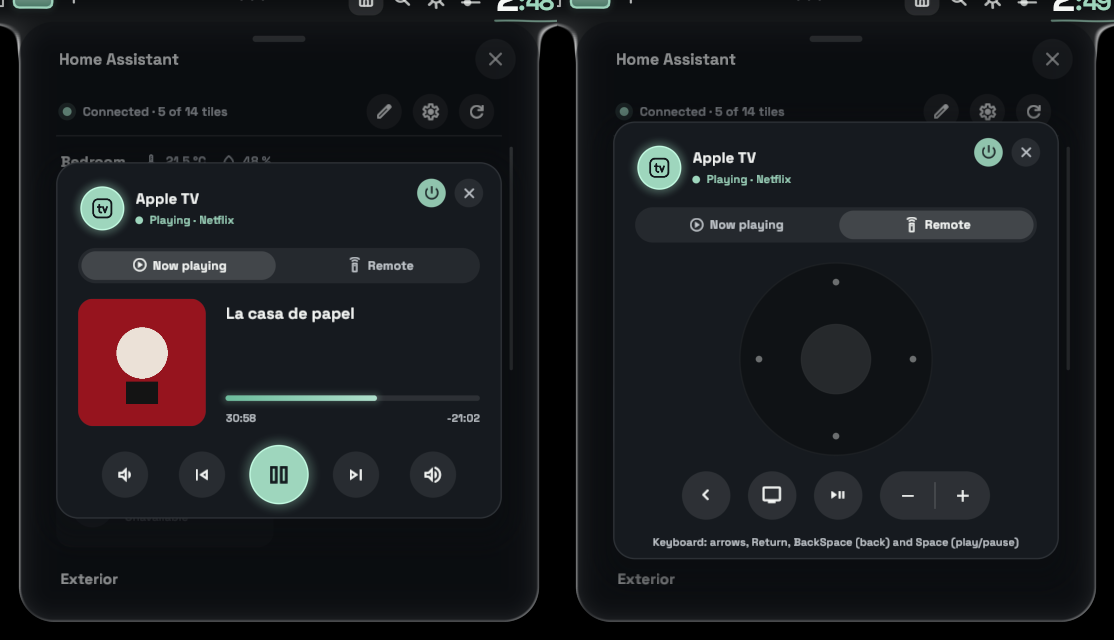
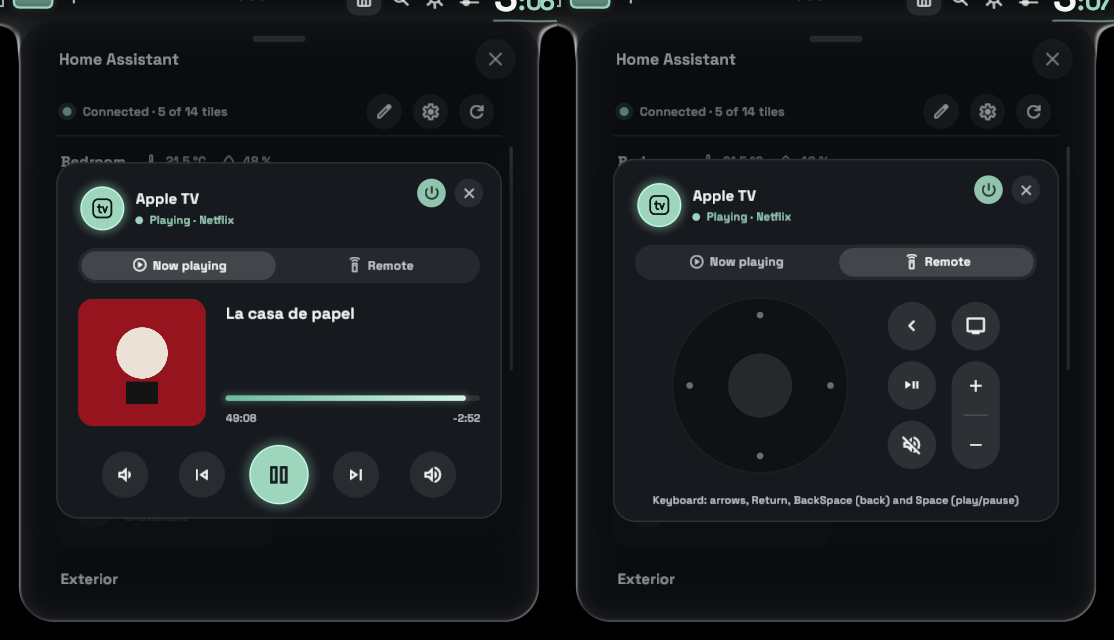
Apple TV: the remote laid out as the Siri Remote, and a card that fits
The remote's buttons sit beside the clickpad in the Siri Remote's two
columns: back and TV, play/pause and the volume rocker, mute. Mute sets the
volume to nothing and back when the player reports one (volume_mute if not).
The card scales down when the panel is not tall enough for it, instead of
running out of it. The artwork waits longer (the Apple TV is slow to hand it
over) and a failed one is asked again 15 s later.

diff --git a/README.es.md b/README.es.md
@@ -71,7 +71,7 @@ Ponle `"color": true` a una luz y su control del clic derecho muestra, debajo de
 Ponle a la ficha de un Apple TV un bloque `"apple_tv"` con su entidad de mando, y un clic derecho sobre ella abre una tarjeta con dos pestañas (el clic normal lo sigue encendiendo y apagando):
 
 - **Reproducción**: la carátula, el título y la serie o el artista, la app, por dónde va (avanza cada segundo), y bajar volumen, anterior, reproducir/pausa, siguiente y subir volumen. El botón de encendido está en la cabecera.
-- **Mando**: el clickpad (sus cuatro bordes mueven, el centro selecciona, y mantenido es una pulsación larga; la rueda del ratón encima sube y baja), atrás, TV (mantenido: el centro de control), reproducir/pausa y el volumen. Mientras esta pestaña está a la vista se maneja con el teclado: las flechas, Intro para seleccionar, Retroceso para atrás, Espacio para reproducir/pausa, y Escape cierra la tarjeta (la tarjeta toma el teclado mientras muestra el mando, y lo suelta al cerrarse o al volver a la otra pestaña).
+- **Mando**: con la disposición del Siri Remote: el clickpad (sus cuatro bordes mueven, el centro selecciona, y mantenido es una pulsación larga; la rueda del ratón encima sube y baja), y a su lado atrás y TV (mantenido: el centro de control), reproducir/pausa y el balancín del volumen, y silenciar. Mientras esta pestaña está a la vista se maneja con el teclado: las flechas, Intro para seleccionar, Retroceso para atrás, Espacio para reproducir/pausa, y Escape cierra la tarjeta (la tarjeta toma el teclado mientras muestra el mando, y lo suelta al cerrarse o al volver a la otra pestaña).
 
 ```json
 { "type": "toggle", "name": "Apple TV", "icon": "reproductor.svg", "entity": "media_player.salon",
@@ -80,7 +80,7 @@ Ponle a la ficha de un Apple TV un bloque `"apple_tv"` con su entidad de mando, 
 
 ![La tarjeta del Apple TV y su mando](docs/es/apple-tv.png)
 
-Son las entidades de la [integración de Apple TV](https://www.home-assistant.io/integrations/apple_tv/): crea un `media_player.` y un `remote.` con el mismo nombre para cada Apple TV (míralos en Ajustes > Dispositivos y servicios > Apple TV). Los botones del mando van a `remote.send_command` y el resto al reproductor. Si la entidad de la ficha no es el reproductor, añade `"media_player": "media_player.…"` al bloque. Sin `remote` la tarjeta no tiene la pestaña del mando, así que también sirve para cualquier otro reproductor. Mientras reproduce, la ficha lo dice: *Reproduciendo · La casa de papel*.
+Son las entidades de la [integración de Apple TV](https://www.home-assistant.io/integrations/apple_tv/): crea un `media_player.` y un `remote.` con el mismo nombre para cada Apple TV (míralos en Ajustes > Dispositivos y servicios > Apple TV). Los botones del mando van a `remote.send_command` y el resto al reproductor (silenciar baja su volumen a cero y lo devuelve, si lo informa). La tarjeta se encoge un poco si el panel no es lo bastante alto. Si la entidad de la ficha no es el reproductor, añade `"media_player": "media_player.…"` al bloque. Sin `remote` la tarjeta no tiene la pestaña del mando, así que también sirve para cualquier otro reproductor. Mientras reproduce, la ficha lo dice: *Reproduciendo · La casa de papel*.
 
 ### La tarjeta de una impresora 3D
 

diff --git a/README.md b/README.md
@@ -72,7 +72,7 @@ Give a light `"color": true` and its right click card shows, below the brightnes
 Give an Apple TV's tile an `"apple_tv"` block with its remote entity, and a right click on it opens a card with two tabs (a click still turns it on and off):
 
 - **Now playing**: the artwork, the title and the series or artist, the app, how far it has got (it moves every second), and volume down, previous, play/pause, next and volume up. The power button is in the head.
-- **Remote**: the clickpad (its four edges move, its middle selects, held it is a long press; the wheel over it moves up and down), back, TV (held: the control centre), play/pause and the volume. While this tab is showing the keyboard drives it: the arrows, Return to select, BackSpace for back, Space for play/pause, and Escape shuts the card (the card takes the keyboard while it shows the remote, and gives it back when it shuts or goes back to the other tab).
+- **Remote**: laid out as the Siri Remote: the clickpad (its four edges move, its middle selects, held it is a long press; the wheel over it moves up and down), and beside it back and TV (held: the control centre), play/pause and the volume rocker, and mute. While this tab is showing the keyboard drives it: the arrows, Return to select, BackSpace for back, Space for play/pause, and Escape shuts the card (the card takes the keyboard while it shows the remote, and gives it back when it shuts or goes back to the other tab).
 
 ```json
 { "type": "toggle", "name": "Apple TV", "icon": "tv-box.svg", "entity": "media_player.living_room",
@@ -81,7 +81,7 @@ Give an Apple TV's tile an `"apple_tv"` block with its remote entity, and a righ
 
 ![The Apple TV's card and its remote](docs/en/apple-tv.png)
 
-These are the [Apple TV integration](https://www.home-assistant.io/integrations/apple_tv/)'s entities: it makes a `media_player.` and a `remote.` with the same name for each Apple TV (check yours in Settings > Devices & services > Apple TV). The remote's buttons go to `remote.send_command`, the rest to the media player. If the tile's entity is not the media player, add `"media_player": "media_player.…"` to the block. Without `remote` the card has no remote tab, so it works for any other media player too. While it plays, the tile says so: *Playing · La casa de papel*.
+These are the [Apple TV integration](https://www.home-assistant.io/integrations/apple_tv/)'s entities: it makes a `media_player.` and a `remote.` with the same name for each Apple TV (check yours in Settings > Devices & services > Apple TV). The remote's buttons go to `remote.send_command`, the rest to the media player (mute sets its volume to nothing and back, when it reports one). The card shrinks a little when the panel is not tall enough for it. If the tile's entity is not the media player, add `"media_player": "media_player.…"` to the block. Without `remote` the card has no remote tab, so it works for any other media player too. While it plays, the tile says so: *Playing · La casa de papel*.
 
 ### A 3D printer's card
 
